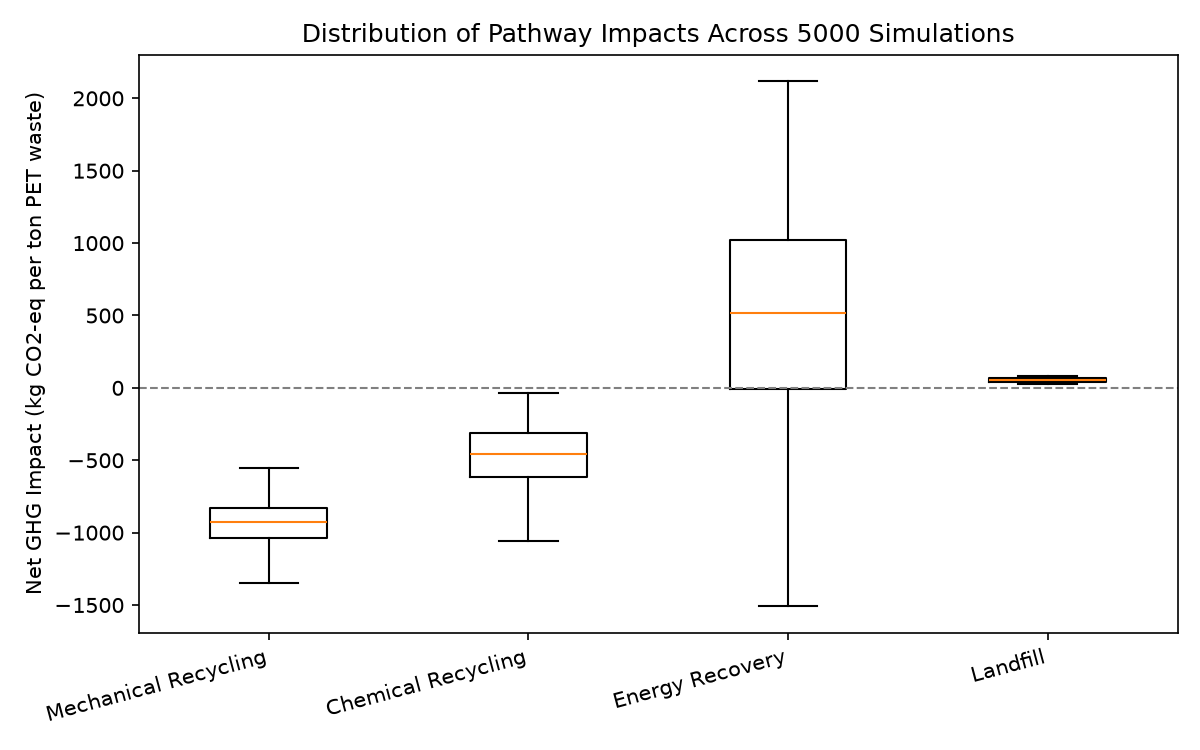
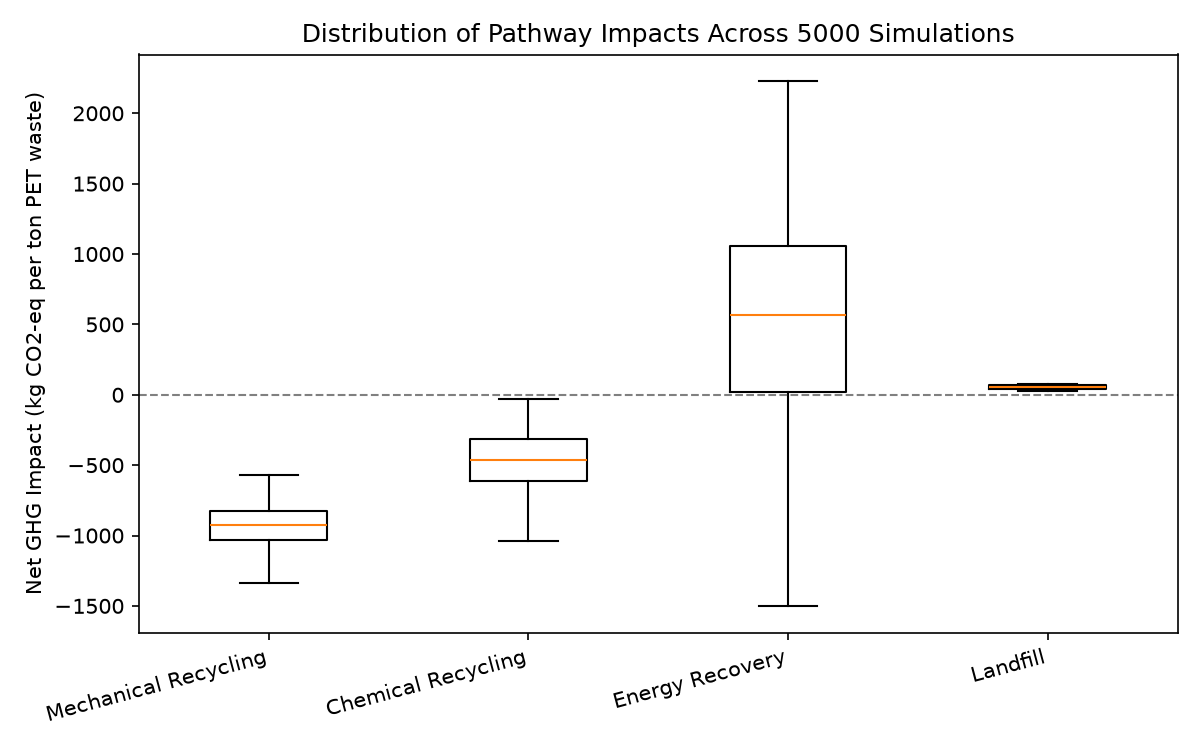
Update results

diff --git a/src/uncertainty.py b/src/uncertainty.py
@@ -12,7 +12,7 @@ from model import mechanical_recycling, chemical_recycling, energy_recovery, lan
 from parameters import UNCERTAINTY_RANGES
 
 N_SIMULATIONS = 5000
-
+RANDOM_SEED = 42
 
 def sample(range_tuple):
     low, high = range_tuple
@@ -24,6 +24,11 @@ def sample_params(pathway_name):
 
 
 def run_simulation():
+
+
+
+
+    random.seed(RANDOM_SEED)
     results = {
         "Mechanical Recycling": [],
         "Chemical Recycling": [],
